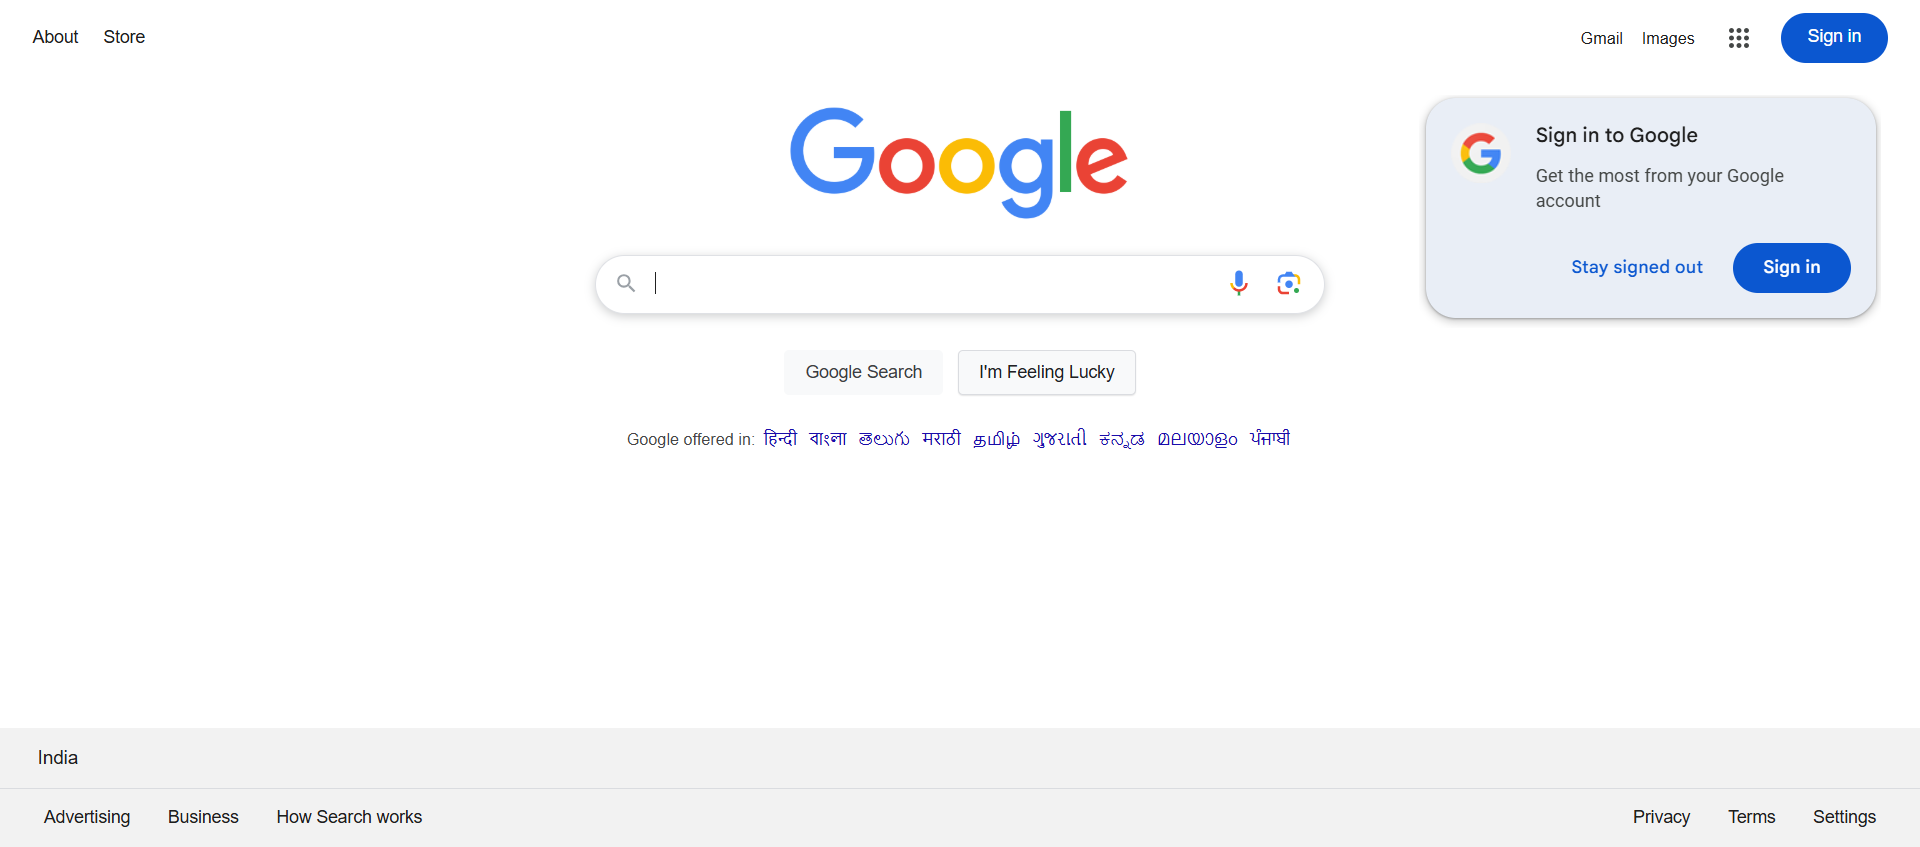
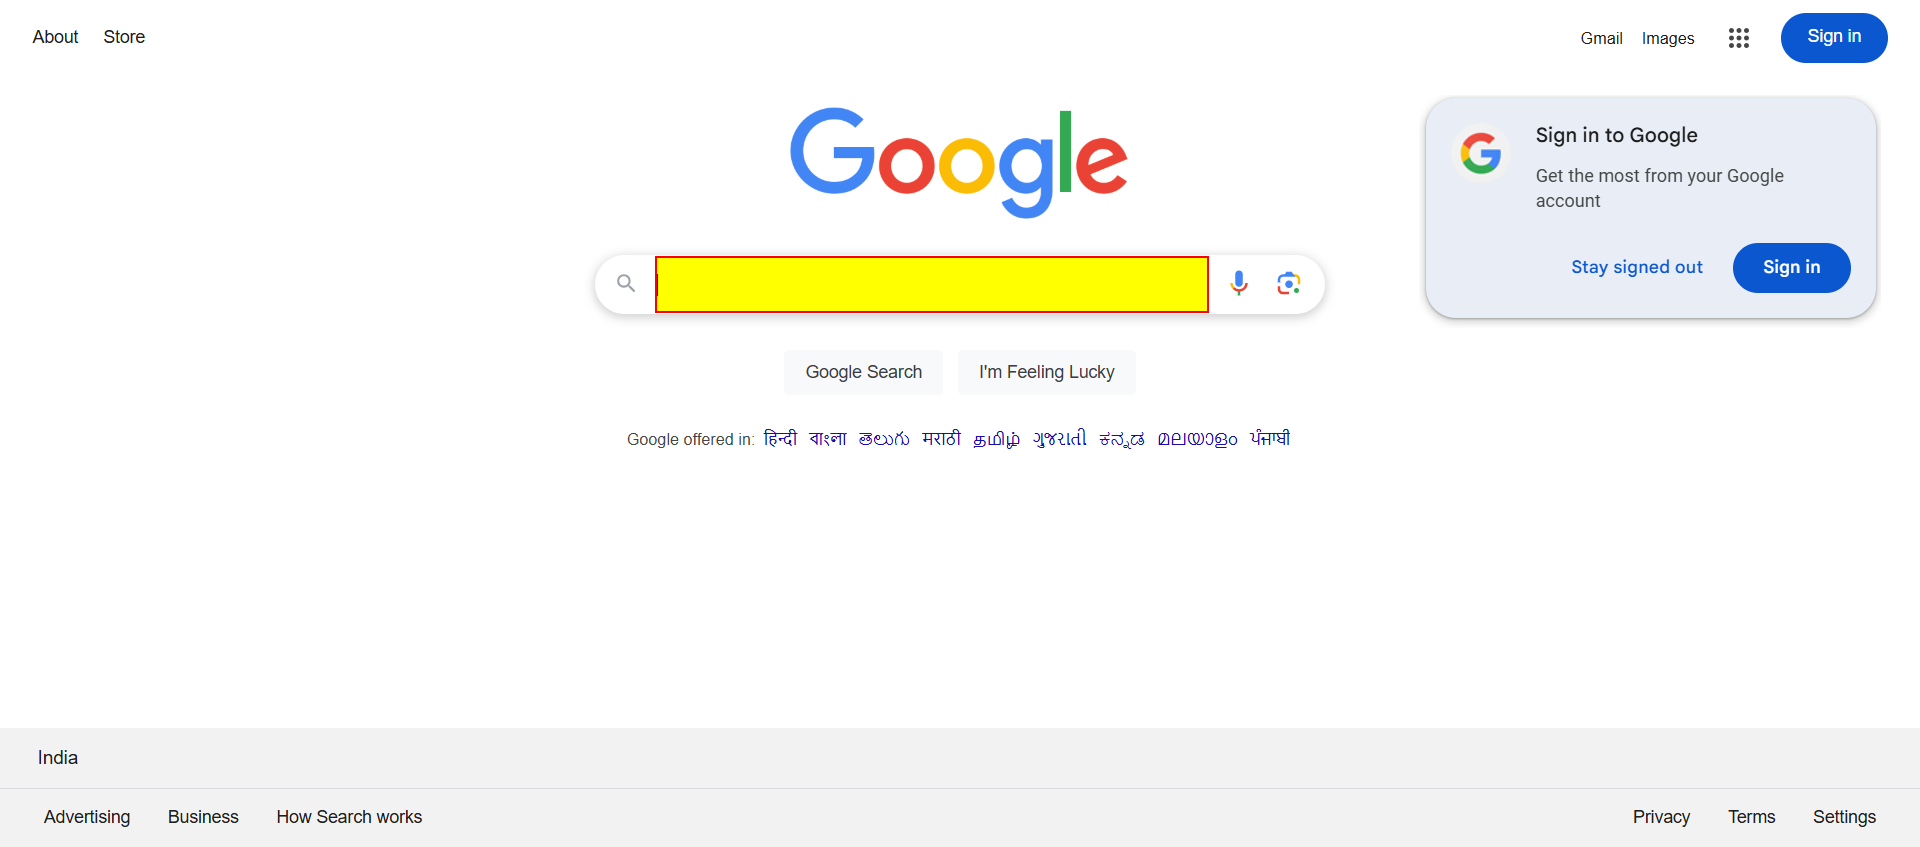
Interview questions

Changed region(s): [[0.3438, 0.2763, 0.6562, 0.3684], [0.5312, 0.4298, 0.5938, 0.4604]]

diff --git a/src/test/java/com/interview_questions_selenium/Program2_2.java b/src/test/java/com/interview_questions_selenium/Program2_2.java
@@ -45,10 +45,17 @@ public class Program2_2 {
 		String title = (String) jsExecutor.executeScript("return document.title");
 		System.out.println(title);
 		
+		JavascriptExecutor js = (JavascriptExecutor)driver;
+		js.executeScript("document.getElementById('APjFqb').style.border='2px solid red'");
+		js.executeScript("document.getElementById('APjFqb').style.background='yellow'");
+		
 		TakesScreenshot takeScreenshot = (TakesScreenshot)driver;
 		File file = takeScreenshot.getScreenshotAs(OutputType.FILE);
 		FileUtils.copyFile(file, new File("./Screenshots/Img1.png"));
 		
-		driver.quit();
+		//driver.quit();
+		
+		js.executeScript("document.getElementById('APjFqb').style.border='none'");
+		js.executeScript("document.getElementById('APjFqb').style.background='none'");
 	}
 }

diff --git a/src/test/java/com/interview_questions_selenium/Program2_1.java b/src/test/java/com/interview_questions_selenium/Program2_1.java
@@ -61,6 +61,7 @@ public class Program2_1 {
 		*/
 		
 		WebDriverManager.chromedriver().setup();
+		// Here instead of WebDriver we have taken ChromeDriver
 		ChromeDriver driver = new ChromeDriver();
 		
 		driver.get("https://www.google.com");
